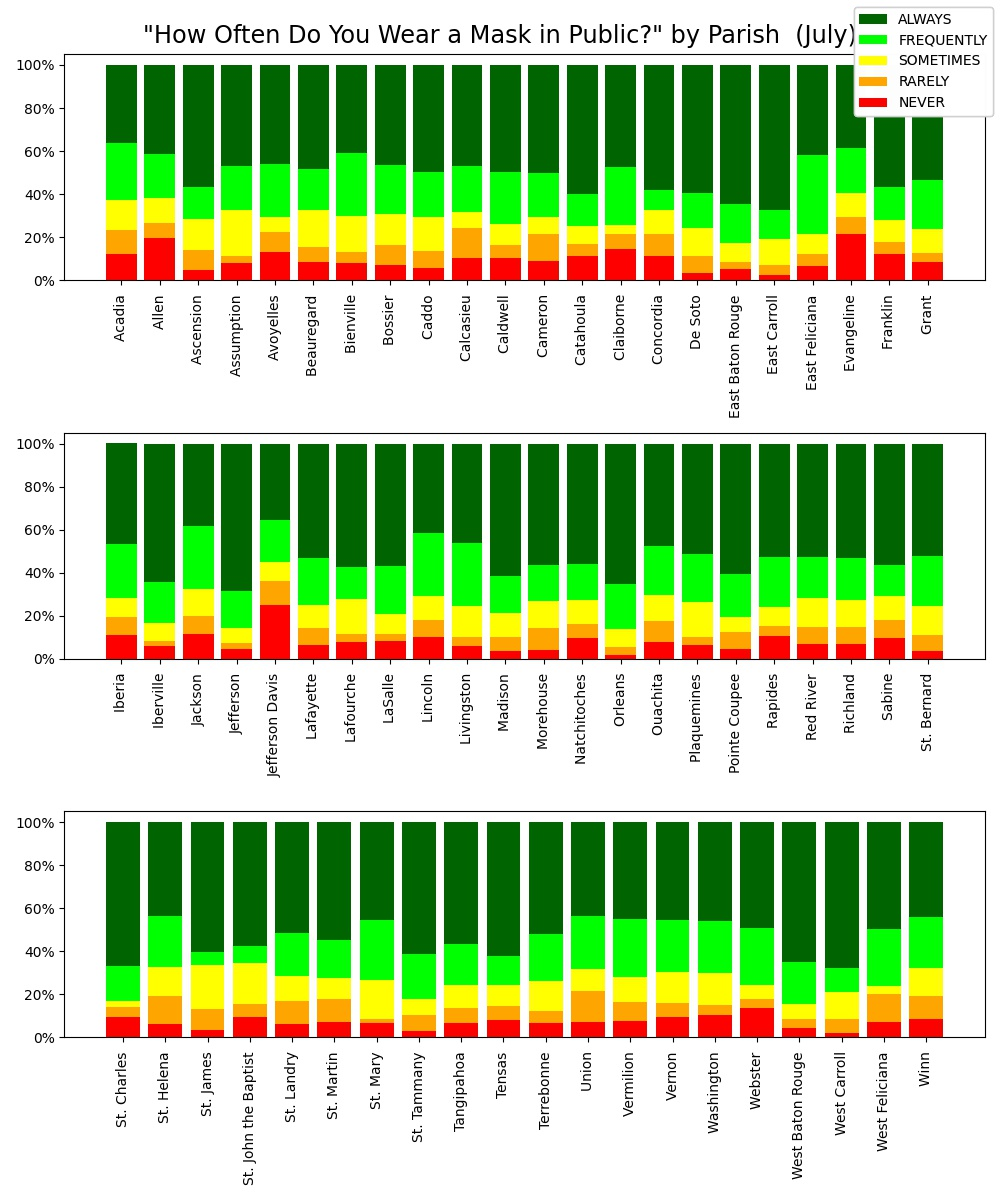
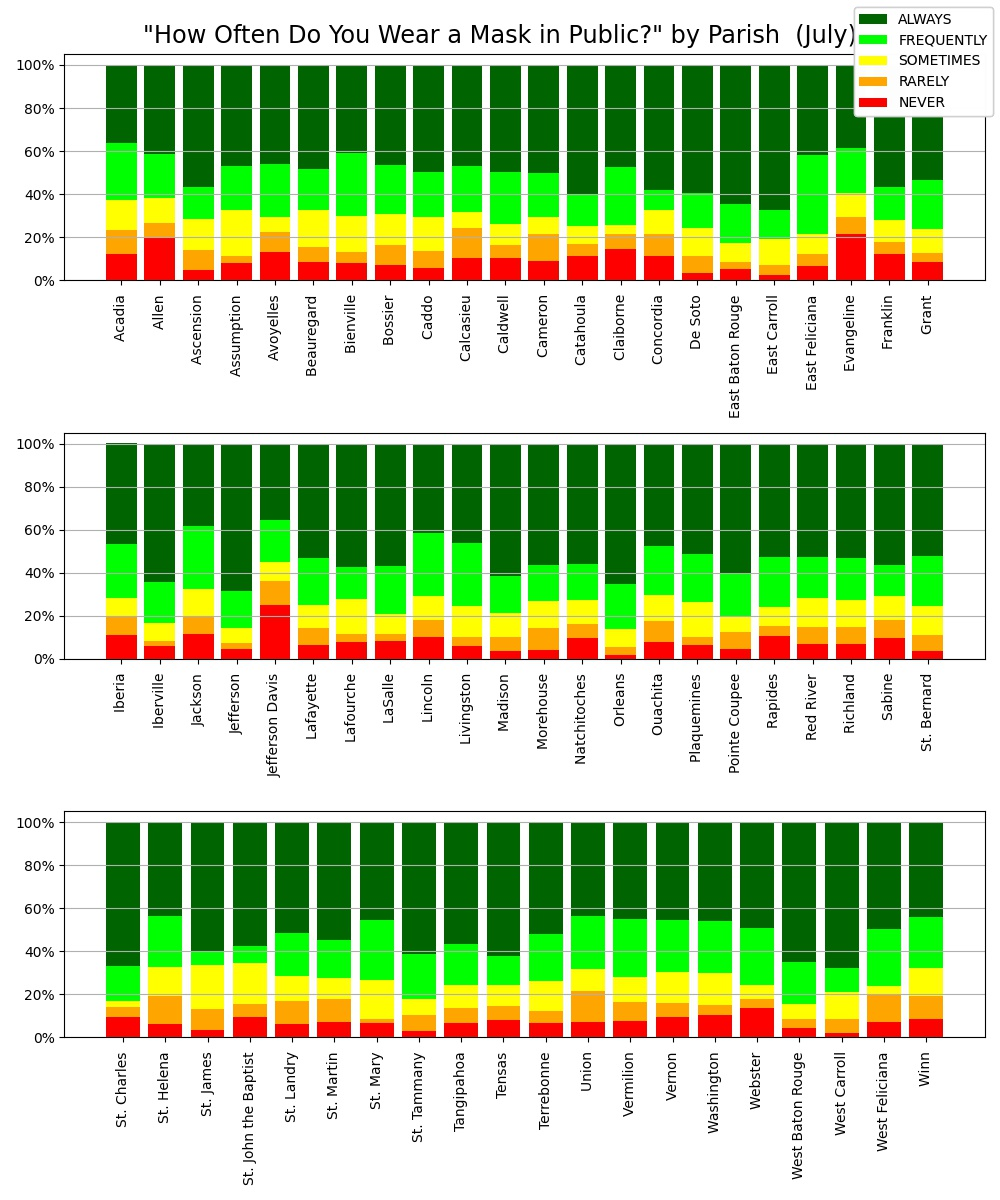
updated with upsteam data sources

diff --git a/MaskUseOverview.py b/MaskUseOverview.py
@@ -49,7 +49,7 @@ la_df['parish'] = la_df['Area Name (including legal/statistical area description
 la_df.tail()
 
 
-# In[21]:
+# In[22]:
 
 
 fig,axs = plt.subplots(3,figsize=(10,12))
@@ -71,7 +71,7 @@ for idx,ax in zip(range(0,pergraph * len(axs),pergraph),axs):
     
     ax.set_yticks(np.arange(0,1.2,0.2))
     ax.set_yticklabels(["%d%%" % x for x in range(0,101,20)])
-    
+    ax.grid(axis='y')
     
 fig.suptitle('"How Often Do You Wear a Mask in Public?" by Parish  (July)',fontsize='xx-large')
 fig.tight_layout()
